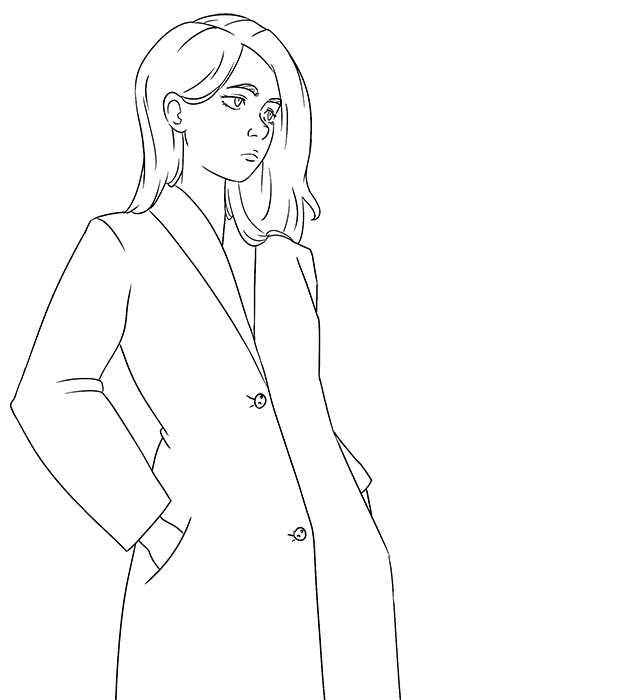
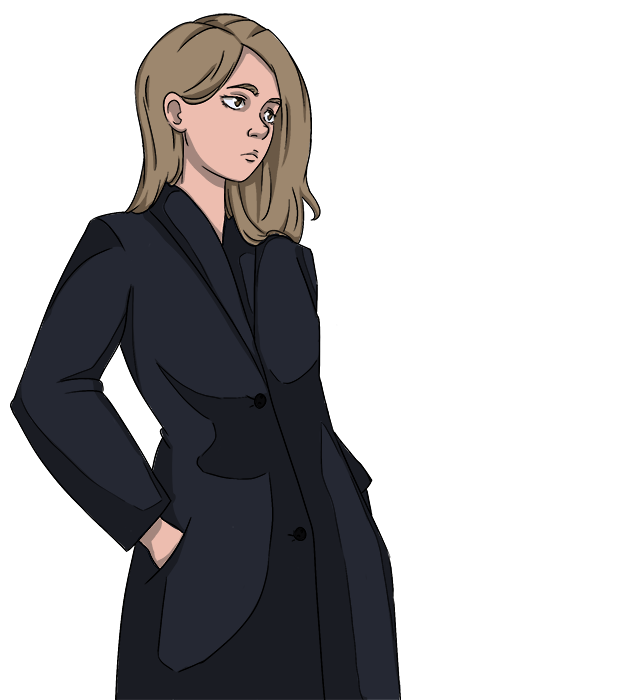
serveuse colo

diff --git a/src/ts/scenes/scene8.ts b/src/ts/scenes/scene8.ts
@@ -28,7 +28,9 @@ const script : DialogueLine[] = [
       background: 'bar',
       charactersOnScreen: {
         left: "serveuse",
-        leftMood: "coutal",
+        leftMood: "peur",
+        right: "ilyem",
+        rightMood: "fachee",
         leftFlip: false,
         rightFlip: false
       },
@@ -38,12 +40,9 @@ const script : DialogueLine[] = [
       name: "Ilyem",
       text: "Si tu cries, je n'hésiterai pas à le planter dans ta gorge ! Et je te préviens, s'il m'arrive quoi que ce soit, Prisme nous surveille en ce moment-même.",
       textPosition: 'right', // Ilyem is on the right
-      background: 'bar',
+      background: 'coutal',
       charactersOnScreen: {
-        left: "serveuse",
-        leftMood: "coutal",
-        leftFlip: false,
-        rightFlip: false
+        left: "",
       },
     },
     {
